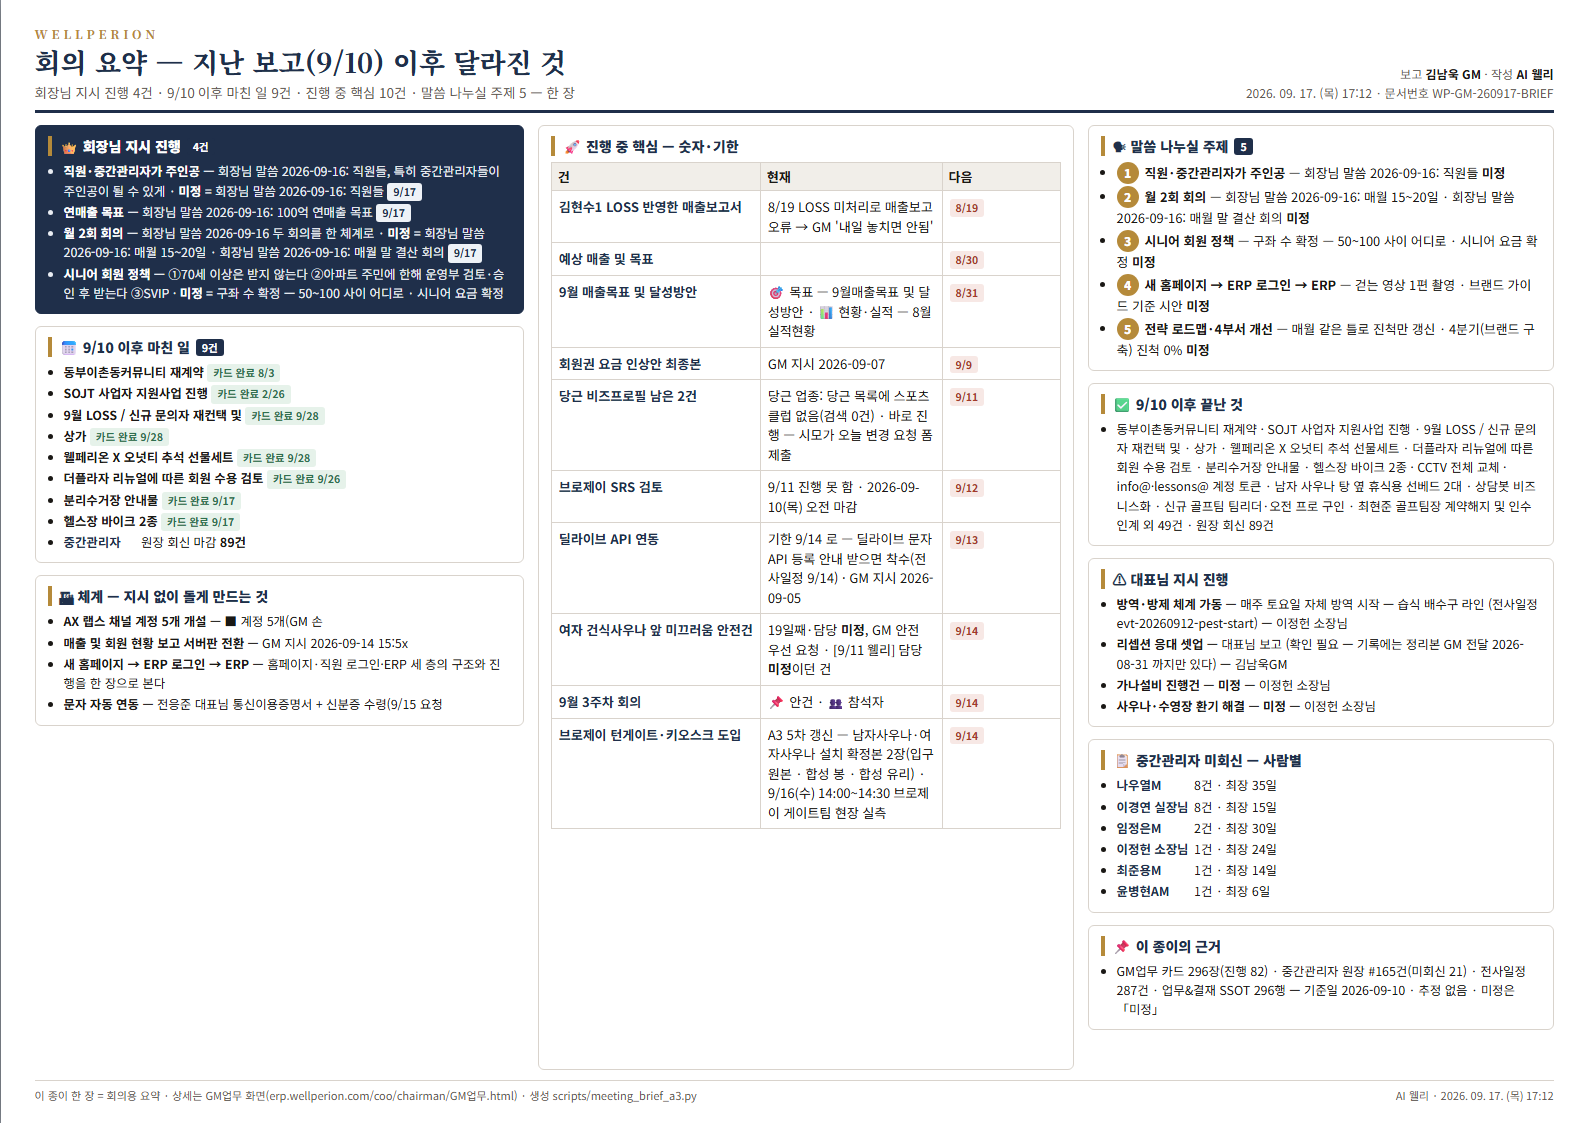
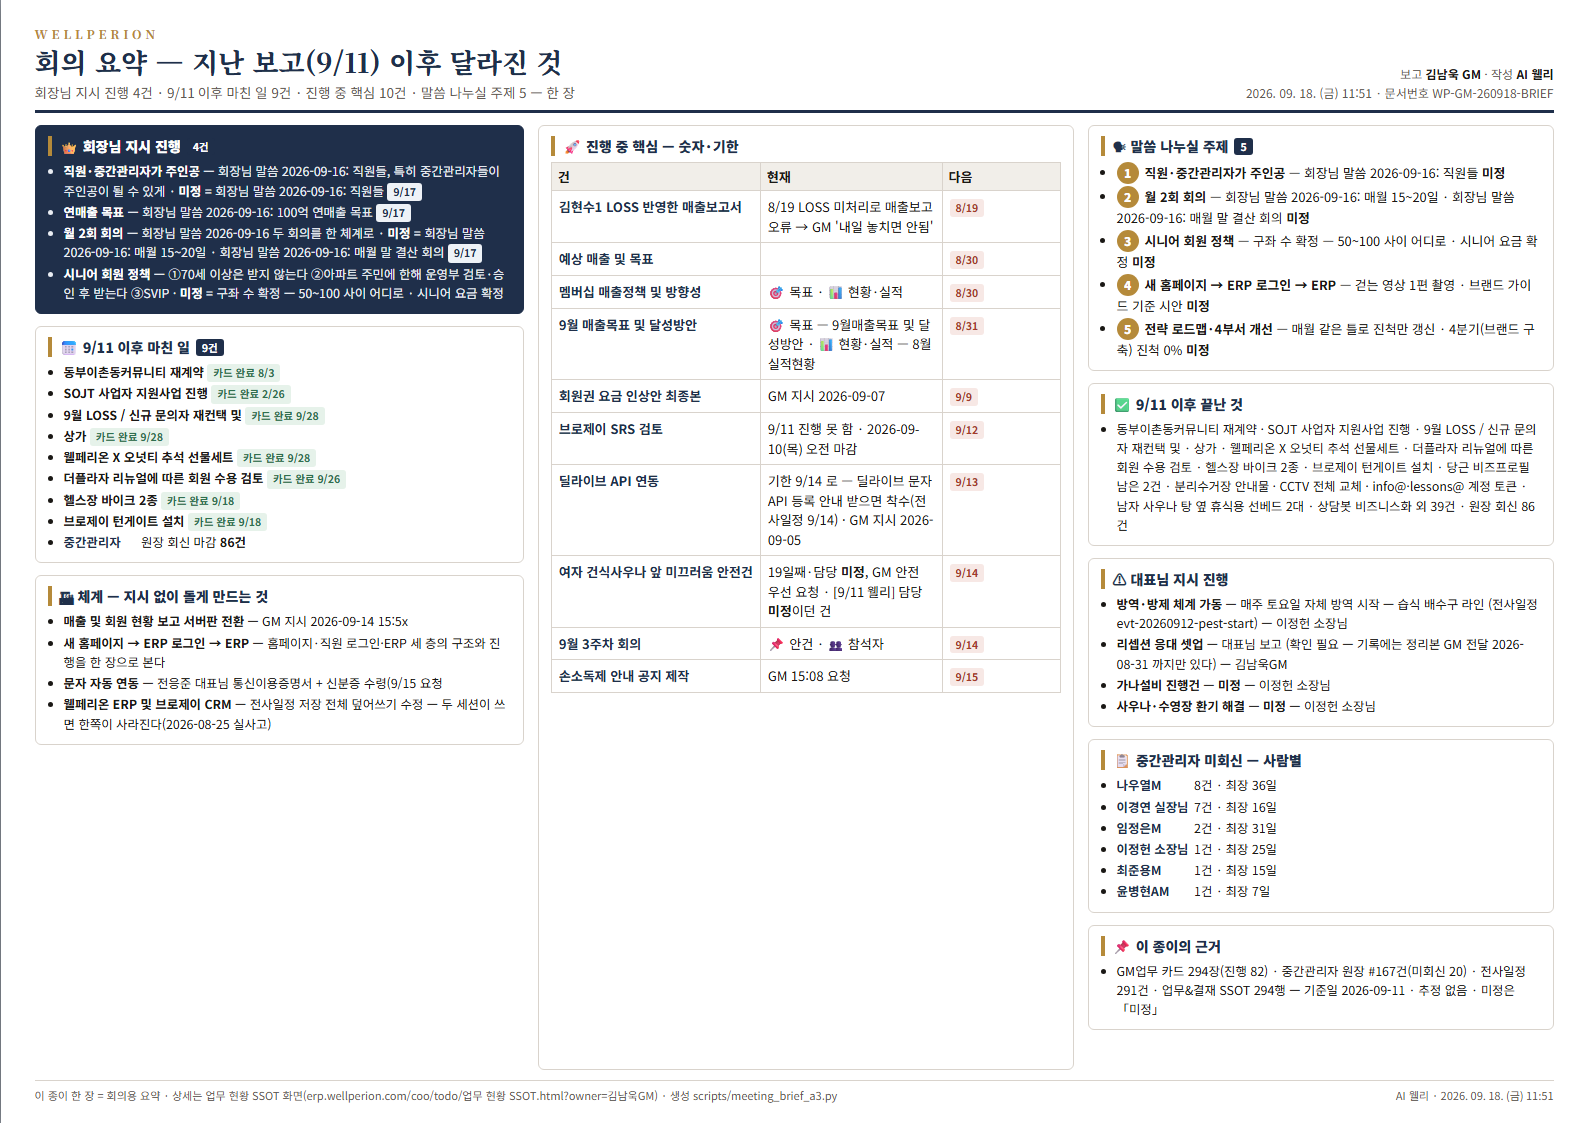
[웰리] chore(brief): 회의요약 A3 재생성 — 주간 진척 5영역 절 첫 판 (배 2745)

diff --git a/3. 웰페리온 가이드/coo/chairman/회의요약_A3.html b/3. 웰페리온 가이드/coo/chairman/회의요약_A3.html
@@ -1,6 +1,6 @@
 <!doctype html>
 <html lang="ko"><head><meta charset="utf-8">
-<title>회의 요약 — 지난 보고(9/10) 이후 달라진 것</title>
+<title>회의 요약 — 지난 보고(9/7) 이후 달라진 것</title>
 <link href="https://fonts.googleapis.com/css2?family=Noto+Sans+KR:wght@400;500;700;900&family=Noto+Serif+KR:wght@600;800&display=swap" rel="stylesheet">
 <style>
 :root{--ink:#1a1815;--sub:#5f5a54;--line:#d9d3cc;--navy:#1f2f4a;--gold:#b58a3a;--bg:#faf8f5;--red:#a33a2a;--ok:#2f6f4e;--fs:12.4px}
@@ -44,10 +44,10 @@ td.n{font-weight:700;color:var(--navy);white-space:nowrap}
   <div class="hd">
     <div>
       <div class="brand">WELLPERION</div>
-      <h1>회의 요약 — 지난 보고(9/10) 이후 달라진 것</h1>
-      <div class="sub">회장님 지시 진행 4건 · 9/10 이후 마친 일 9건 · 진행 중 핵심 10건 · 말씀 나누실 주제 5 — 한 장</div>
+      <h1>회의 요약 — 지난 보고(9/7) 이후 달라진 것</h1>
+      <div class="sub">회장님 지시 진행 4건 · 9/7 이후 마친 일 9건 · 진행 중 핵심 10건 · 말씀 나누실 주제 5 — 한 장</div>
     </div>
-    <div class="meta">보고 <b>김남욱 GM</b> · 작성 <b>AI 웰리</b><br>2026. 09. 17. (목) 17:12 · 문서번호 WP-GM-260917-BRIEF</div>
+    <div class="meta">보고 <b>김남욱 GM</b> · 작성 <b>AI 웰리</b><br>2026. 09. 18. (금) 11:59 · 문서번호 WP-GM-260918-BRIEF</div>
   </div>
 
   <div class="grid">
@@ -58,12 +58,12 @@ td.n{font-weight:700;color:var(--navy);white-space:nowrap}
         <ul><li><b>직원·중간관리자가 주인공</b> — 회장님 말씀 2026-09-16: 직원들, 특히 중간관리자들이 주인공이 될 수 있게 · <b>미정</b> = 회장님 말씀 2026-09-16: 직원들  <span class="pill">9/17</span></li><li><b>연매출 목표</b> — 회장님 말씀 2026-09-16: 100억 연매출 목표  <span class="pill">9/17</span></li><li><b>월 2회 회의</b> — 회장님 말씀 2026-09-16 두 회의를 한 체계로 · <b>미정</b> = 회장님 말씀 2026-09-16: 매월 15~20일 · 회장님 말씀 2026-09-16: 매월 말 결산 회의  <span class="pill">9/17</span></li><li><b>시니어 회원 정책</b> — ①70세 이상은 받지 않는다 ②아파트 주민에 한해 운영부 검토·승인 후 받는다 ③SVIP · <b>미정</b> = 구좌 수 확정 — 50~100 사이 어디로 · 시니어 요금 확정 </li></ul>
       </div>
       <div class="box">
-        <h2>📅 9/10 이후 마친 일 <span class="tag">9건</span></h2>
-        <ul><li><b>동부이촌동커뮤니티 재계약</b> <span class="pill g">카드 완료 8/3</span></li><li><b>SOJT 사업자 지원사업 진행</b> <span class="pill g">카드 완료 2/26</span></li><li><b>9월 LOSS / 신규 문의자 재컨택 및</b> <span class="pill g">카드 완료 9/28</span></li><li><b>상가</b> <span class="pill g">카드 완료 9/28</span></li><li><b>웰페리온 X 오넛티 추석 선물세트</b> <span class="pill g">카드 완료 9/28</span></li><li><b>더플라자 리뉴얼에 따른 회원 수용 검토</b> <span class="pill g">카드 완료 9/26</span></li><li><b>분리수거장 안내물</b> <span class="pill g">카드 완료 9/17</span></li><li><b>헬스장 바이크 2종</b> <span class="pill g">카드 완료 9/17</span></li><li><span class="k">중간관리자</span> 원장 회신 마감 <b>89건</b></li></ul>
+        <h2>📅 9/7 이후 마친 일 <span class="tag">9건</span></h2>
+        <ul><li><b>동부이촌동커뮤니티 재계약</b> <span class="pill g">카드 완료 8/3</span></li><li><b>SOJT 사업자 지원사업 진행</b> <span class="pill g">카드 완료 2/26</span></li><li><b>9월 LOSS / 신규 문의자 재컨택 및</b> <span class="pill g">카드 완료 9/28</span></li><li><b>상가</b> <span class="pill g">카드 완료 9/28</span></li><li><b>웰페리온 X 오넛티 추석 선물세트</b> <span class="pill g">카드 완료 9/28</span></li><li><b>더플라자 리뉴얼에 따른 회원 수용 검토</b> <span class="pill g">카드 완료 9/26</span></li><li><b>헬스장 바이크 2종</b> <span class="pill g">카드 완료 9/18</span></li><li><b>브로제이 턴게이트 설치</b> <span class="pill g">카드 완료 9/18</span></li><li><span class="k">중간관리자</span> 원장 회신 마감 <b>134건</b></li></ul>
       </div>
       <div class="box">
         <h2>🏗 체계 — 지시 없이 돌게 만드는 것</h2>
-        <ul><li><b>AX 랩스 채널 계정 5개 개설</b> — ■ 계정 5개(GM 손</li><li><b>매출 및 회원 현황 보고 서버판 전환</b> — GM 지시 2026-09-14 15:5x</li><li><b>새 홈페이지 → ERP 로그인 → ERP</b> — 홈페이지·직원 로그인·ERP 세 층의 구조와 진행을 한 장으로 본다</li><li><b>문자 자동 연동</b> — 전응준 대표님 통신이용증명서 + 신분증 수령(9/15 요청</li></ul>
+        <ul><li><b>매출 및 회원 현황 보고 서버판 전환</b> — GM 지시 2026-09-14 15:5x</li><li><b>새 홈페이지 → ERP 로그인 → ERP</b> — 홈페이지·직원 로그인·ERP 세 층의 구조와 진행을 한 장으로 본다</li><li><b>문자 자동 연동</b> — 전응준 대표님 통신이용증명서 + 신분증 수령(9/15 요청</li><li><b>웰페리온 ERP 및 브로제이 CRM</b> — 전사일정 저장 전체 덮어쓰기 수정 — 두 세션이 쓰면 한쪽이 사라진다(2026-08-25 실사고)</li></ul>
       </div>
     </div>
 
@@ -75,14 +75,14 @@ td.n{font-weight:700;color:var(--navy);white-space:nowrap}
           <tr><th style="width:150px">건</th><th>현재</th><th style="width:118px">다음</th></tr>
           <tr><td class="n">김현수1 LOSS 반영한 매출보고서</td><td>8/19 LOSS 미처리로 매출보고 오류 → GM '내일 놓치면 안됨'</td><td><span class="pill r">8/19</span></td></tr>
           <tr><td class="n">예상 매출 및 목표</td><td></td><td><span class="pill r">8/30</span></td></tr>
+          <tr><td class="n">멤버십 매출정책 및 방향성</td><td>🎯 목표 · 📊 현황·실적</td><td><span class="pill r">8/30</span></td></tr>
           <tr><td class="n">9월 매출목표 및 달성방안</td><td>🎯 목표 — 9월매출목표 및 달성방안 · 📊 현황·실적 — 8월 실적현황</td><td><span class="pill r">8/31</span></td></tr>
           <tr><td class="n">회원권 요금 인상안 최종본</td><td>GM 지시 2026-09-07</td><td><span class="pill r">9/9</span></td></tr>
-          <tr><td class="n">당근 비즈프로필 남은 2건</td><td>당근 업종: 당근 목록에 스포츠클럽 없음(검색 0건) · 바로 진행 — 시모가 오늘 변경 요청 폼 제출</td><td><span class="pill r">9/11</span></td></tr>
           <tr><td class="n">브로제이 SRS 검토</td><td>9/11 진행 못 함 · 2026-09-10(목) 오전 마감</td><td><span class="pill r">9/12</span></td></tr>
           <tr><td class="n">딜라이브 API 연동</td><td>기한 9/14 로 — 딜라이브 문자 API 등록 안내 받으면 착수(전사일정 9/14) · GM 지시 2026-09-05</td><td><span class="pill r">9/13</span></td></tr>
           <tr><td class="n">여자 건식사우나 앞 미끄러움 안전건</td><td>19일째·담당 <b>미정</b>, GM 안전 우선 요청 · [9/11 웰리] 담당 <b>미정</b>이던 건</td><td><span class="pill r">9/14</span></td></tr>
           <tr><td class="n">9월 3주차 회의</td><td>📌 안건 · 👥 참석자</td><td><span class="pill r">9/14</span></td></tr>
-          <tr><td class="n">브로제이 턴게이트·키오스크 도입</td><td>A3 5차 갱신 — 남자사우나·여자사우나 설치 확정본 2장(입구 원본 · 합성 봉 · 합성 유리) · 9/16(수) 14:00~14:30 브로제이 게이트팀 현장 실측</td><td><span class="pill r">9/14</span></td></tr>
+          <tr><td class="n">손소독제 안내 공지 제작</td><td>GM 15:08 요청</td><td><span class="pill r">9/15</span></td></tr>
         </table>
       </div>
     </div>
@@ -94,8 +94,8 @@ td.n{font-weight:700;color:var(--navy);white-space:nowrap}
         <ul class="talk"><li><span class="q">1</span><b>직원·중간관리자가 주인공</b> — 회장님 말씀 2026-09-16: 직원들 <b>미정</b></li><li><span class="q">2</span><b>월 2회 회의</b> — 회장님 말씀 2026-09-16: 매월 15~20일 · 회장님 말씀 2026-09-16: 매월 말 결산 회의 <b>미정</b></li><li><span class="q">3</span><b>시니어 회원 정책</b> — 구좌 수 확정 — 50~100 사이 어디로 · 시니어 요금 확정 <b>미정</b></li><li><span class="q">4</span><b>새 홈페이지 → ERP 로그인 → ERP</b> — 걷는 영상 1편 촬영 · 브랜드 가이드 기준 시안 <b>미정</b></li><li><span class="q">5</span><b>전략 로드맵·4부서 개선</b> — 매월 같은 틀로 진척만 갱신 · 4분기(브랜드 구축) 진척 0% <b>미정</b></li></ul>
       </div>
       <div class="box">
-        <h2>✅ 9/10 이후 끝난 것</h2>
-        <ul><li>동부이촌동커뮤니티 재계약 · SOJT 사업자 지원사업 진행 · 9월 LOSS / 신규 문의자 재컨택 및 · 상가 · 웰페리온 X 오넛티 추석 선물세트 · 더플라자 리뉴얼에 따른 회원 수용 검토 · 분리수거장 안내물 · 헬스장 바이크 2종 · CCTV 전체 교체 · info@·lessons@ 계정 토큰 · 남자 사우나 탕 옆 휴식용 선베드 2대 · 상담봇 비즈니스화 · 신규 골프팀 팀리더·오전 프로 구인 · 최현준 골프팀장 계약해지 및 인수인계 외 49건 · 원장 회신 89건</li></ul>
+        <h2>✅ 9/7 이후 끝난 것</h2>
+        <ul><li>동부이촌동커뮤니티 재계약 · SOJT 사업자 지원사업 진행 · 9월 LOSS / 신규 문의자 재컨택 및 · 상가 · 웰페리온 X 오넛티 추석 선물세트 · 더플라자 리뉴얼에 따른 회원 수용 검토 · 헬스장 바이크 2종 · 브로제이 턴게이트 설치 · 당근 비즈프로필 남은 2건 · 분리수거장 안내물 · CCTV 전체 교체 · info@·lessons@ 계정 토큰 · 남자 사우나 탕 옆 휴식용 선베드 2대 · 상담봇 비즈니스화 외 65건 · 원장 회신 134건</li></ul>
       </div>
       <div class="box">
         <h2>⚠ 대표님 지시 진행</h2>
@@ -103,15 +103,34 @@ td.n{font-weight:700;color:var(--navy);white-space:nowrap}
       </div>
       <div class="box">
         <h2>📋 중간관리자 미회신 — 사람별</h2>
-        <ul><li><span class="k">나우열M</span> 8건 · 최장 35일</li><li><span class="k">이경연 실장님</span> 8건 · 최장 15일</li><li><span class="k">임정은M</span> 2건 · 최장 30일</li><li><span class="k">이정헌 소장님</span> 1건 · 최장 24일</li><li><span class="k">최준용M</span> 1건 · 최장 14일</li><li><span class="k">윤병현AM</span> 1건 · 최장 6일</li></ul>
+        <ul><li><span class="k">나우열M</span> 8건 · 최장 36일</li><li><span class="k">이경연 실장님</span> 7건 · 최장 16일</li><li><span class="k">임정은M</span> 2건 · 최장 31일</li><li><span class="k">이정헌 소장님</span> 1건 · 최장 25일</li><li><span class="k">최준용M</span> 1건 · 최장 15일</li><li><span class="k">윤병현AM</span> 1건 · 최장 7일</li></ul>
       </div>
       <div class="box">
         <h2>📌 이 종이의 근거</h2>
-        <ul><li>GM업무 카드 296장(진행 82) · 중간관리자 원장 #165건(미회신 21) · 전사일정 287건 · 업무&결재 SSOT 296행 — 기준일 2026-09-10 · 추정 없음 · 미정은 「미정」</li></ul>
+        <ul><li>GM업무 카드 294장(진행 82) · 중간관리자 원장 #167건(미회신 20) · 전사일정 297건 · 업무&결재 SSOT 294행 — 기준일 2026-09-07 · 추정 없음 · 미정은 「미정」</li></ul>
       </div>
     </div>
   </div>
 
-  <div class="ft"><span>이 종이 한 장 = 회의용 요약 · 상세는 업무 현황 SSOT 화면(erp.wellperion.com/coo/todo/업무 현황 SSOT.html?owner=김남욱GM) · 생성 scripts/meeting_brief_a3.py</span><span>AI 웰리 · 2026. 09. 17. (목) 17:12</span></div>
+  <div class="ft"><span>이 종이 한 장 = 회의용 요약 · 상세는 업무 현황 SSOT 화면(erp.wellperion.com/coo/todo/업무 현황 SSOT.html?owner=김남욱GM) · 생성 scripts/meeting_brief_a3.py</span><span>AI 웰리 · 2026. 09. 18. (금) 11:59</span></div>
 </div>
+  <div class="page" style="margin-top:0">
+    <div class="hd">
+      <div>
+        <div class="brand">WELLPERION</div>
+        <h1>📊 주간 진척 — 5영역</h1>
+        <div class="sub">중간관리자 3분(운영부·시설부·경지부) 주간 체크 · 화 15:00 정기회의 자료 · 창(window) = 9/7~9/13</div>
+      </div>
+      <div class="meta">작성 <b>AI 웰리</b><br>2026. 09. 18. (금) 11:59</div>
+    </div>
+    <table style="margin-top:16px">
+      <tr><th style="width:130px">영역</th><th style="width:130px">담당 부서</th><th>지난주 진행된 것</th><th>이번 주 진행할 것</th><th style="width:80px">진척</th></tr>
+      <tr><td class="n">업무 SSOT</td><td>운영부·경지부</td><td>운영부 완료 15건 · 나우열M 완료 18건</td><td>운영부 기한 이번주 1건 · 나우열M 기한 이번주 0건</td><td><span class="ok">정상</span></td></tr>
+      <tr><td class="n">점검</td><td>시설부·운영부</td><td>시설부 34회차(5일) · 운영부 시작 전(10/1부터)</td><td>매일 점검(상시 반복)</td><td><span class="ok">정상</span></td></tr>
+      <tr><td class="n">종합접수처</td><td>운영부·시설부</td><td>미측정(완료 시각 원장 없음 — 열린 건만 조회됨)</td><td>운영부 열린 2건(7일↑ 2) · 시설부 열린 0건(7일↑ 0)</td><td><span class="red">주의</span></td></tr>
+      <tr><td class="n">매출</td><td>운영부</td><td>미측정(주간 매출 집계 경로 없음 · 참고 2026-08 마감 598,500,995원)</td><td>미정(주간 목표 미정의)</td><td><span class="">미측정</span></td></tr>
+      <tr><td class="n">설비 매뉴얼</td><td>시설부</td><td>미수집(체계 페이지가 매뉴얼 카드를 JS로 그려 정적으로 못 셈 — 소장 회신 대기)</td><td>미정</td><td><span class="">미측정</span></td></tr>
+    </table>
+    <div class="ft"><span>이 쪽 = 배 2745 주간 진척(첫 회 2026-09-21) · 값 없음 = 미측정(지어내지 않는다) · 생성 scripts/meeting_brief_a3.py --weekly</span><span>AI 웰리 · 2026. 09. 18. (금) 11:59</span></div>
+  </div>
 </body></html>
